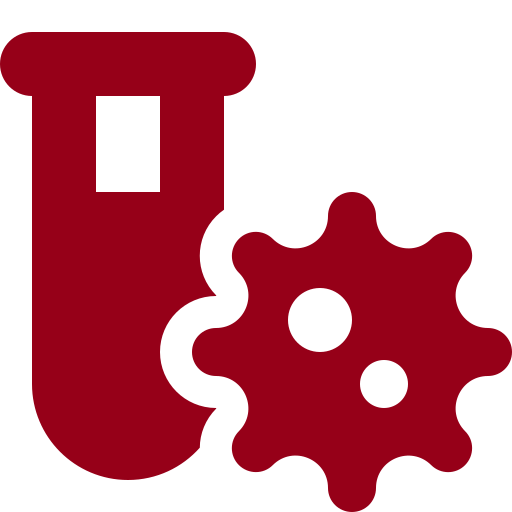
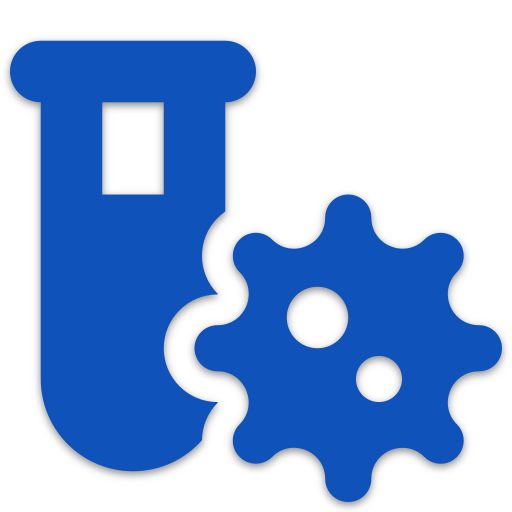
Color change

diff --git a/_site/index.html b/_site/index.html
@@ -27,9 +27,9 @@
   <link rel="icon" type="image/png" sizes="32x32" href="/favicon-32x32.png">
   <link rel="icon" type="image/png" sizes="16x16" href="/favicon-16x16.png">
   <link rel="manifest" href="/site.webmanifest">
-  <link rel="mask-icon" href="/safari-pinned-tab.svg" color="#960018">
-  <meta name="msapplication-TileColor" content="#b91d47">
-  <meta name="theme-color" content="#ffffff">  
+  <link rel="mask-icon" href="/safari-pinned-tab.svg" color="#0f52ba">
+  <meta name="msapplication-TileColor" content="#0f52ba">
+  <meta name="theme-color" content="#ffffff">
 </head>
 <body><header class="site-header" role="banner">
 
@@ -64,12 +64,12 @@ Hello, and thanks for dropping by!</p>
 
 <p>During the summer, you’ll often find me exploring hiking trails with my partner Narissa and our two dogs, Kingston and Charlie. When hockey season picks up, you will likely spot me at the rink.</p>
 
-<p>If you’re interested in learning more about my work or discussing potential opportunities, feel free to reach out <a href="mailto:microbiology.marcus@gmail.com">via email</a>.</p>
+<p>If you’re interested in learning more about my work or discussing potential opportunities, feel free to reach out via <a href="mailto:microbiology.marcus@gmail.com">email<i class="fa-regular fa-envelope" style="font-size: 80%; padding-left: 0.25em; text-decoration: none;"></i></a>.</p>
 
 <p style="text-align: center; font-size: 40px;">
-  <a href="https://www.linkedin.com/in/johnson-marcus/"><i class="fa-brands fa-linkedin"></i></a>
-  <a href="https://www.twitter.com/Johnson_MarcusE"><i class="fa-brands fa-twitter"></i></a>
-  <a href="https://github.com/microbiology-marcus"><i class="fa-brands fa-github"></i></a>
+  <a href="https://www.linkedin.com/in/johnson-marcus/"><i class="fa-brands fa-linkedin" style="color:#0F52BA"></i></a>
+  <a href="https://www.twitter.com/Johnson_MarcusE"><i class="fa-brands fa-twitter" style="color:#0F52BA"></i></a>
+  <a href="https://github.com/microbiology-marcus"><i class="fa-brands fa-github" style="color:#0F52BA"></i></a>
 </p>
 
   </div>
@@ -81,10 +81,10 @@ Hello, and thanks for dropping by!</p>
     <data class="u-url" href=""/></data>
 
     <div class="wrapper">
-        <p style="color: #888888; font-size: 80%;">
+        <p style="font-size: 80%;">
             Copyright © 2020–2024 Marcus Johnson.
-            Powered by <a href="https://jekyllrb.com/" style="color: #960018;">Jekyll</a>.
-            <i class="fa-regular fa-envelope"></i> <a href="mailto:microbiology.marcus@gmail.com" style="color: #960018;">Email me</a>.
+            Powered by <a href="https://jekyllrb.com/">Jekyll<i class="fa fa-arrow-up-right-from-square" style="font-size: 80%; padding-left: 0.25em; text-decoration: none;"></i></a>.
+            Contact me via <a href="mailto:microbiology.marcus@gmail.com">email<i class="fa-regular fa-envelope" style="font-size: 80%; padding-left: 0.25em; text-decoration: none;"></i></a>.
         </p>
     </div>
 </footer>

diff --git a/_site/resume/index.html b/_site/resume/index.html
@@ -27,9 +27,9 @@
   <link rel="icon" type="image/png" sizes="32x32" href="/favicon-32x32.png">
   <link rel="icon" type="image/png" sizes="16x16" href="/favicon-16x16.png">
   <link rel="manifest" href="/site.webmanifest">
-  <link rel="mask-icon" href="/safari-pinned-tab.svg" color="#960018">
-  <meta name="msapplication-TileColor" content="#b91d47">
-  <meta name="theme-color" content="#ffffff">  
+  <link rel="mask-icon" href="/safari-pinned-tab.svg" color="#0f52ba">
+  <meta name="msapplication-TileColor" content="#0f52ba">
+  <meta name="theme-color" content="#ffffff">
 </head>
 <body><header class="site-header" role="banner">
 
@@ -72,7 +72,7 @@
 
 <p>You can find a copy of my CV <a href="/assets/docs/Marcus_Johnson_CV-2023.pdf">here<i class="fa-regular fa-file-pdf" style="padding-left: 0.25em; text-decoration: none;"></i></a>.</p>
 
-<h2 id="experience-">Experience <i class="fa-solid fa-briefcase" style="color: #960018;"></i></h2>
+<h2 id="experience-">Experience <i class="fa-solid fa-briefcase"></i></h2>
 
 <div class="row"><div class="column left">
   <p>2023 – present</p>
@@ -109,7 +109,7 @@
   Maple Leaf Foods Inc, Mississauga ON</p>
 </div></div>
 
-<h2 id="education-">Education <i class="fa-solid fa-graduation-cap" style="color: #960018;"></i></h2>
+<h2 id="education-">Education <i class="fa-solid fa-graduation-cap"></i></h2>
 
 <div class="row"><div class="column left">
   <p>2020 – 2022</p>
@@ -125,7 +125,7 @@
   University of Guelph, Guelph ON</p>
 </div></div>
 
-<h2 id="activities--volunteering-">Activities &amp; Volunteering <i class="fa-solid fa-handshake-angle" style="color: #960018;"></i></h2>
+<h2 id="activities--volunteering-">Activities &amp; Volunteering <i class="fa-solid fa-handshake-angle"></i></h2>
 
 <div class="row"><div class="column left">
   <p>2020 – present</p>
@@ -157,10 +157,10 @@
     <data class="u-url" href=""/></data>
 
     <div class="wrapper">
-        <p style="color: #888888; font-size: 80%;">
+        <p style="font-size: 80%;">
             Copyright © 2020–2024 Marcus Johnson.
-            Powered by <a href="https://jekyllrb.com/" style="color: #960018;">Jekyll</a>.
-            <i class="fa-regular fa-envelope"></i> <a href="mailto:microbiology.marcus@gmail.com" style="color: #960018;">Email me</a>.
+            Powered by <a href="https://jekyllrb.com/">Jekyll<i class="fa fa-arrow-up-right-from-square" style="font-size: 80%; padding-left: 0.25em; text-decoration: none;"></i></a>.
+            Contact me via <a href="mailto:microbiology.marcus@gmail.com">email<i class="fa-regular fa-envelope" style="font-size: 80%; padding-left: 0.25em; text-decoration: none;"></i></a>.
         </p>
     </div>
 </footer>

diff --git a/_site/works/index.html b/_site/works/index.html
@@ -27,9 +27,9 @@
   <link rel="icon" type="image/png" sizes="32x32" href="/favicon-32x32.png">
   <link rel="icon" type="image/png" sizes="16x16" href="/favicon-16x16.png">
   <link rel="manifest" href="/site.webmanifest">
-  <link rel="mask-icon" href="/safari-pinned-tab.svg" color="#960018">
-  <meta name="msapplication-TileColor" content="#b91d47">
-  <meta name="theme-color" content="#ffffff">  
+  <link rel="mask-icon" href="/safari-pinned-tab.svg" color="#0f52ba">
+  <meta name="msapplication-TileColor" content="#0f52ba">
+  <meta name="theme-color" content="#ffffff">
 </head>
 <body><header class="site-header" role="banner">
 
@@ -60,7 +60,7 @@
 <h2 id="posts">Posts</h2>
 <p><big><a href="/posts/2024/01/19/the-consequences-of-a-playoff-bye.html">The consequences of a playoff bye</a></big><br /><small>Jan 19, 2024<small></small></small></p>
 
-<p><big><a href="/personal-note/2020/06/06/goodbye-facebook.html">Why I’m leaving Facebook, but not our friendship</a></big><br /><small>Jun 6, 2020</small></p>
+<!-- <big>[Why I'm leaving Facebook, but not our friendship](/personal-note/2020/06/06/goodbye-facebook.html)</big><br><small>Jun 6, 2020</small> -->
 
   </div>
 
@@ -71,10 +71,10 @@
     <data class="u-url" href=""/></data>
 
     <div class="wrapper">
-        <p style="color: #888888; font-size: 80%;">
+        <p style="font-size: 80%;">
             Copyright © 2020–2024 Marcus Johnson.
-            Powered by <a href="https://jekyllrb.com/" style="color: #960018;">Jekyll</a>.
-            <i class="fa-regular fa-envelope"></i> <a href="mailto:microbiology.marcus@gmail.com" style="color: #960018;">Email me</a>.
+            Powered by <a href="https://jekyllrb.com/">Jekyll<i class="fa fa-arrow-up-right-from-square" style="font-size: 80%; padding-left: 0.25em; text-decoration: none;"></i></a>.
+            Contact me via <a href="mailto:microbiology.marcus@gmail.com">email<i class="fa-regular fa-envelope" style="font-size: 80%; padding-left: 0.25em; text-decoration: none;"></i></a>.
         </p>
     </div>
 </footer>

diff --git a/_site/tutoring/index.html b/_site/tutoring/index.html
@@ -27,9 +27,9 @@
   <link rel="icon" type="image/png" sizes="32x32" href="/favicon-32x32.png">
   <link rel="icon" type="image/png" sizes="16x16" href="/favicon-16x16.png">
   <link rel="manifest" href="/site.webmanifest">
-  <link rel="mask-icon" href="/safari-pinned-tab.svg" color="#960018">
-  <meta name="msapplication-TileColor" content="#b91d47">
-  <meta name="theme-color" content="#ffffff">  
+  <link rel="mask-icon" href="/safari-pinned-tab.svg" color="#0f52ba">
+  <meta name="msapplication-TileColor" content="#0f52ba">
+  <meta name="theme-color" content="#ffffff">
 </head>
 <body><header class="site-header" role="banner">
 
@@ -59,7 +59,9 @@
 
 <p>My area of specailty for undergraduate courses includes but is not limited to: biology, chemistry (organic and analytical), biochemistry and statistics. In high school, I offer my services for biology, chemistry, physics and math.</p>
 
-<p>Please contact me for more informaiton or to discuss scheduling.</p>
+<p>I am not currently accepting more students for the current school year.</p>
+
+<p>Thank you for understanding.</p>
 
   </div>
 
@@ -70,10 +72,10 @@
     <data class="u-url" href=""/></data>
 
     <div class="wrapper">
-        <p style="color: #888888; font-size: 80%;">
+        <p style="font-size: 80%;">
             Copyright © 2020–2024 Marcus Johnson.
-            Powered by <a href="https://jekyllrb.com/" style="color: #960018;">Jekyll</a>.
-            <i class="fa-regular fa-envelope"></i> <a href="mailto:microbiology.marcus@gmail.com" style="color: #960018;">Email me</a>.
+            Powered by <a href="https://jekyllrb.com/">Jekyll<i class="fa fa-arrow-up-right-from-square" style="font-size: 80%; padding-left: 0.25em; text-decoration: none;"></i></a>.
+            Contact me via <a href="mailto:microbiology.marcus@gmail.com">email<i class="fa-regular fa-envelope" style="font-size: 80%; padding-left: 0.25em; text-decoration: none;"></i></a>.
         </p>
     </div>
 </footer>

diff --git a/_site/posts/2024/01/19/the-consequences-of-a-playoff-bye.html b/_site/posts/2024/01/19/the-consequences-of-a-playoff-bye.html
@@ -28,9 +28,9 @@
   <link rel="icon" type="image/png" sizes="32x32" href="/favicon-32x32.png">
   <link rel="icon" type="image/png" sizes="16x16" href="/favicon-16x16.png">
   <link rel="manifest" href="/site.webmanifest">
-  <link rel="mask-icon" href="/safari-pinned-tab.svg" color="#960018">
-  <meta name="msapplication-TileColor" content="#b91d47">
-  <meta name="theme-color" content="#ffffff">  
+  <link rel="mask-icon" href="/safari-pinned-tab.svg" color="#0f52ba">
+  <meta name="msapplication-TileColor" content="#0f52ba">
+  <meta name="theme-color" content="#ffffff">
 </head>
 <body><header class="site-header" role="banner">
 
@@ -101,10 +101,10 @@
     <data class="u-url" href=""/></data>
 
     <div class="wrapper">
-        <p style="color: #888888; font-size: 80%;">
+        <p style="font-size: 80%;">
             Copyright © 2020–2024 Marcus Johnson.
-            Powered by <a href="https://jekyllrb.com/" style="color: #960018;">Jekyll</a>.
-            <i class="fa-regular fa-envelope"></i> <a href="mailto:microbiology.marcus@gmail.com" style="color: #960018;">Email me</a>.
+            Powered by <a href="https://jekyllrb.com/">Jekyll<i class="fa fa-arrow-up-right-from-square" style="font-size: 80%; padding-left: 0.25em; text-decoration: none;"></i></a>.
+            Contact me via <a href="mailto:microbiology.marcus@gmail.com">email<i class="fa-regular fa-envelope" style="font-size: 80%; padding-left: 0.25em; text-decoration: none;"></i></a>.
         </p>
     </div>
 </footer>

diff --git a/_site/404.html b/_site/404.html
@@ -27,9 +27,9 @@
   <link rel="icon" type="image/png" sizes="32x32" href="/favicon-32x32.png">
   <link rel="icon" type="image/png" sizes="16x16" href="/favicon-16x16.png">
   <link rel="manifest" href="/site.webmanifest">
-  <link rel="mask-icon" href="/safari-pinned-tab.svg" color="#960018">
-  <meta name="msapplication-TileColor" content="#b91d47">
-  <meta name="theme-color" content="#ffffff">  
+  <link rel="mask-icon" href="/safari-pinned-tab.svg" color="#0f52ba">
+  <meta name="msapplication-TileColor" content="#0f52ba">
+  <meta name="theme-color" content="#ffffff">
 </head>
 <body><header class="site-header" role="banner">
 
@@ -74,10 +74,10 @@
     <data class="u-url" href=""/></data>
 
     <div class="wrapper">
-        <p style="color: #888888; font-size: 80%;">
+        <p style="font-size: 80%;">
             Copyright © 2020–2024 Marcus Johnson.
-            Powered by <a href="https://jekyllrb.com/" style="color: #960018;">Jekyll</a>.
-            <i class="fa-regular fa-envelope"></i> <a href="mailto:microbiology.marcus@gmail.com" style="color: #960018;">Email me</a>.
+            Powered by <a href="https://jekyllrb.com/">Jekyll<i class="fa fa-arrow-up-right-from-square" style="font-size: 80%; padding-left: 0.25em; text-decoration: none;"></i></a>.
+            Contact me via <a href="mailto:microbiology.marcus@gmail.com">email<i class="fa-regular fa-envelope" style="font-size: 80%; padding-left: 0.25em; text-decoration: none;"></i></a>.
         </p>
     </div>
 </footer>

diff --git a/_site/personal-note/2020/06/06/goodbye-facebook.html b/_site/personal-note/2020/06/06/goodbye-facebook.html
@@ -28,9 +28,9 @@
   <link rel="icon" type="image/png" sizes="32x32" href="/favicon-32x32.png">
   <link rel="icon" type="image/png" sizes="16x16" href="/favicon-16x16.png">
   <link rel="manifest" href="/site.webmanifest">
-  <link rel="mask-icon" href="/safari-pinned-tab.svg" color="#960018">
-  <meta name="msapplication-TileColor" content="#b91d47">
-  <meta name="theme-color" content="#ffffff">  
+  <link rel="mask-icon" href="/safari-pinned-tab.svg" color="#0f52ba">
+  <meta name="msapplication-TileColor" content="#0f52ba">
+  <meta name="theme-color" content="#ffffff">
 </head>
 <body><header class="site-header" role="banner">
 
@@ -85,10 +85,10 @@
     <data class="u-url" href=""/></data>
 
     <div class="wrapper">
-        <p style="color: #888888; font-size: 80%;">
+        <p style="font-size: 80%;">
             Copyright © 2020–2024 Marcus Johnson.
-            Powered by <a href="https://jekyllrb.com/" style="color: #960018;">Jekyll</a>.
-            <i class="fa-regular fa-envelope"></i> <a href="mailto:microbiology.marcus@gmail.com" style="color: #960018;">Email me</a>.
+            Powered by <a href="https://jekyllrb.com/">Jekyll<i class="fa fa-arrow-up-right-from-square" style="font-size: 80%; padding-left: 0.25em; text-decoration: none;"></i></a>.
+            Contact me via <a href="mailto:microbiology.marcus@gmail.com">email<i class="fa-regular fa-envelope" style="font-size: 80%; padding-left: 0.25em; text-decoration: none;"></i></a>.
         </p>
     </div>
 </footer>

diff --git a/_includes/footer.html b/_includes/footer.html
@@ -2,10 +2,10 @@
     <data class="u-url" href=""{{ "/" | relative_url }}></data>
 
     <div class="wrapper">
-        <p style="color: #888888; font-size: 80%;">
+        <p style="font-size: 80%;">
             Copyright © 2020–2024 Marcus Johnson.
-            Powered by <a href="https://jekyllrb.com/" style="color: #960018;">Jekyll</a>.
-            <i class="fa-regular fa-envelope"></i> <a href="mailto:microbiology.marcus@gmail.com" style="color: #960018;">Email me</a>.
+            Powered by <a href="https://jekyllrb.com/">Jekyll<i class="fa fa-arrow-up-right-from-square" style="font-size: 80%; padding-left: 0.25em; text-decoration: none;"></i></a>.
+            Contact me via <a href="mailto:microbiology.marcus@gmail.com">email<i class="fa-regular fa-envelope" style="font-size: 80%; padding-left: 0.25em; text-decoration: none;"></i></a>.
         </p>
     </div>
 </footer>

diff --git a/_includes/head.html b/_includes/head.html
@@ -18,7 +18,7 @@
   <link rel="icon" type="image/png" sizes="32x32" href="/favicon-32x32.png">
   <link rel="icon" type="image/png" sizes="16x16" href="/favicon-16x16.png">
   <link rel="manifest" href="/site.webmanifest">
-  <link rel="mask-icon" href="/safari-pinned-tab.svg" color="#960018">
-  <meta name="msapplication-TileColor" content="#b91d47">
-  <meta name="theme-color" content="#ffffff">  
+  <link rel="mask-icon" href="/safari-pinned-tab.svg" color="#0f52ba">
+  <meta name="msapplication-TileColor" content="#0f52ba">
+  <meta name="theme-color" content="#ffffff">
 </head>

diff --git a/_sass/custom.scss b/_sass/custom.scss
@@ -22,25 +22,28 @@
     text-decoration: none;
   }
   */
+
   
   .site-title {
-    color: #960018;
+    color: #0F52BA;
   }
 
   .site-title, .site-title:visited {
-    color: #960018;
+    color: #0F52BA;
   }
   
-
+  /*
   a {
-    color: #960018;
+    color: #0F52BA;
     text-decoration: none;
   }
 
-  a:hover {
-    color: #cc0022;
+    a:hover {
+    color: #0F52BA;
   }
-
+  
   a:visited {
-    color: #660011;
+    color: #0F52BA;
   }
+  */
+

diff --git a/_site/assets/main.css b/_site/assets/main.css
@@ -670,24 +670,26 @@ table td {
 }
 */
 .site-title {
-  color: #960018;
+  color: #0F52BA;
 }
 
 .site-title, .site-title:visited {
-  color: #960018;
+  color: #0F52BA;
 }
 
+/*
 a {
-  color: #960018;
+  color: #0F52BA;
   text-decoration: none;
 }
 
-a:hover {
-  color: #cc0022;
+  a:hover {
+  color: #0F52BA;
 }
 
 a:visited {
-  color: #660011;
+  color: #0F52BA;
 }
+*/
 
 /*# sourceMappingURL=main.css.map */
